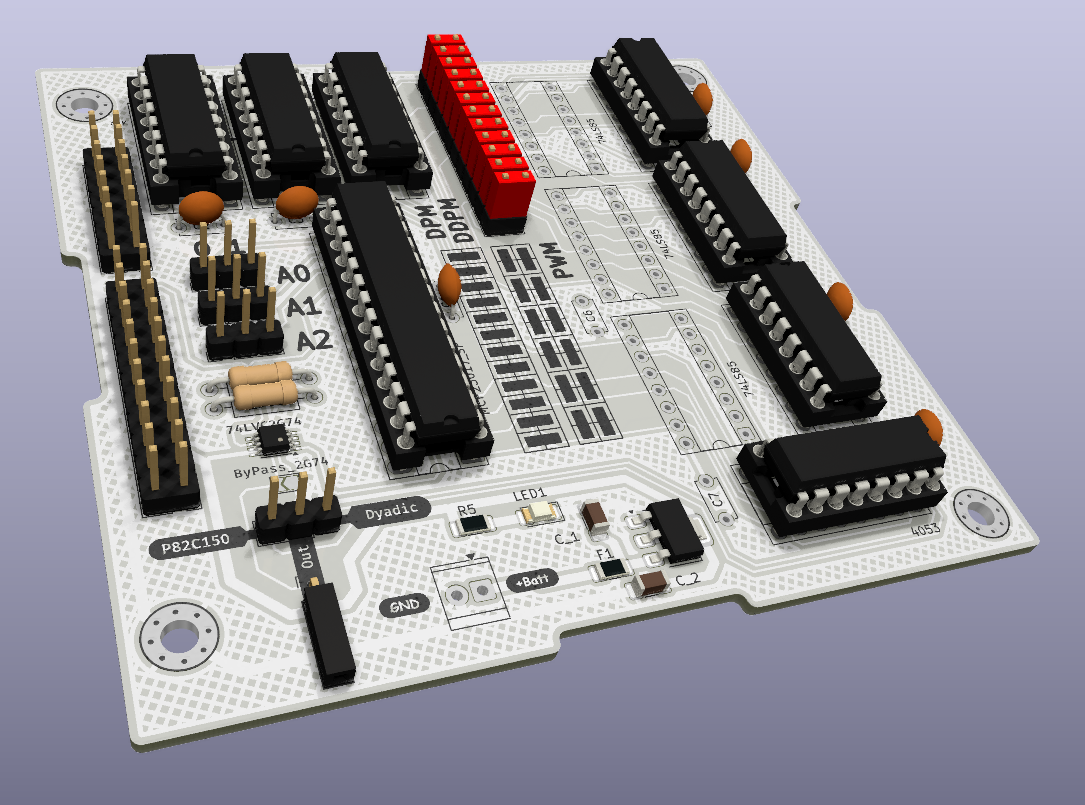
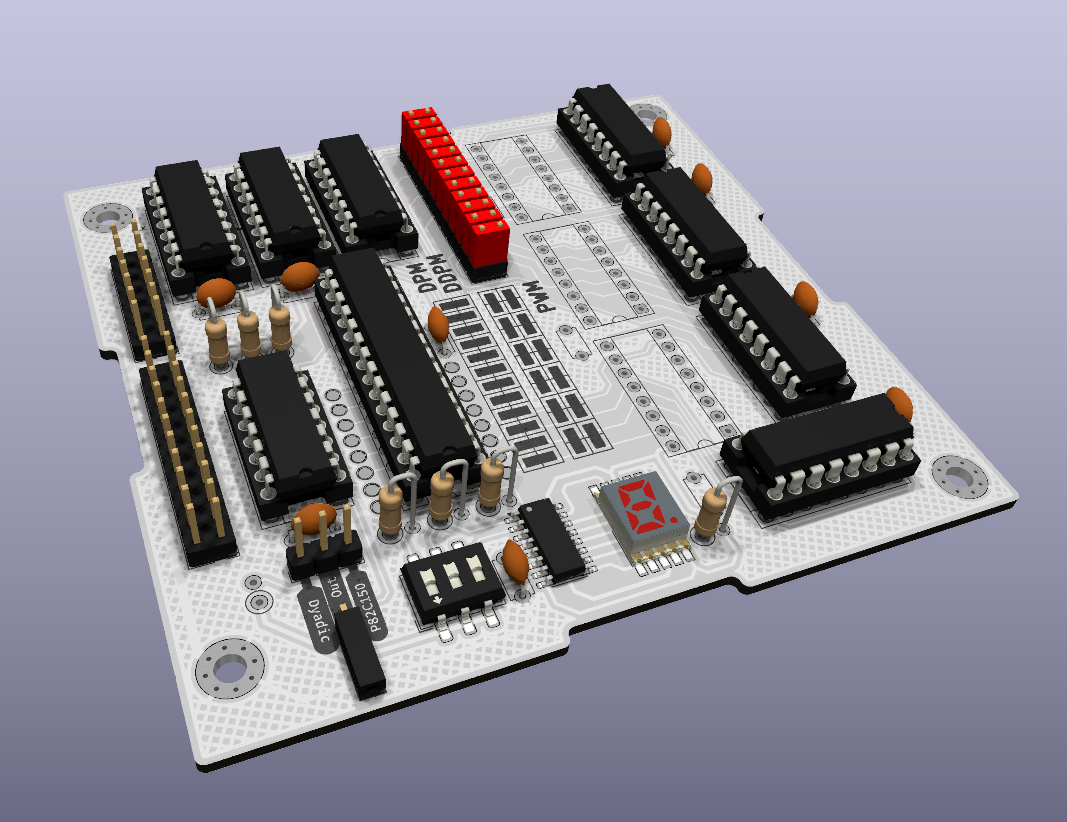
[UPDATE] : readme file and PCB silkscreen with PCB v2.2

diff --git a/README.md b/README.md
@@ -31,13 +31,6 @@ On Distributed Pulse Modulation (DPM) and Dyadic Descrete Pulse Modulation (DDPM
 	DPM P82C150-like (Distributed Pulse Modulation)
 	DDPM (Dyadic Discrete Pulse Modulation)
 
-<<<<<<< HEAD
-=======
-### Photographies done with the PCB_V1.0 board
-![photo_board](./img/photo_board.jpg)
-![photo_stack](./img/photo_stack.jpg)
-
->>>>>>> Branch_V2.x
 ### MCP23017 Port A & B
 
 	MCP23017 is an I2C 16bits IO expander
@@ -53,11 +46,12 @@ On Distributed Pulse Modulation (DPM) and Dyadic Descrete Pulse Modulation (DDPM
 	0x07	4096
 
 ![Port A & B](./img/MCP23017_portA_B.jpg)
-<<<<<<< HEAD
-=======
 
-## Board configurations (PCB_V2.0)
->>>>>>> Branch_V2.x
+### Overview
+
+![DistributedPulseModulation_overview](./img/DistributedPulseModulation_overview.png)
+
+## Choose your feature and do not populate the useless chips
 
 ### PWM
 
@@ -77,15 +71,6 @@ On Distributed Pulse Modulation (DPM) and Dyadic Descrete Pulse Modulation (DDPM
 
 * do not populate the 74LS85
 * place the jumpers as describe in the silkscreen schematic (DPM/DDPM)
-<<<<<<< HEAD
-![Dyadic_Discret_Pulse_Modulation](./img/Dyadic_Discret_Pulse_Modulation.png)
-
-# Other
-If you're happy by my work ... put a star ;-) 
-=======
 
 ![Dyadic_Discret_Pulse_Modulation](./img/Dyadic_Discret_Pulse_Modulation.png)
 
-# Other
-If you're happy by my work ... put a star ;-) 
->>>>>>> Branch_V2.x
